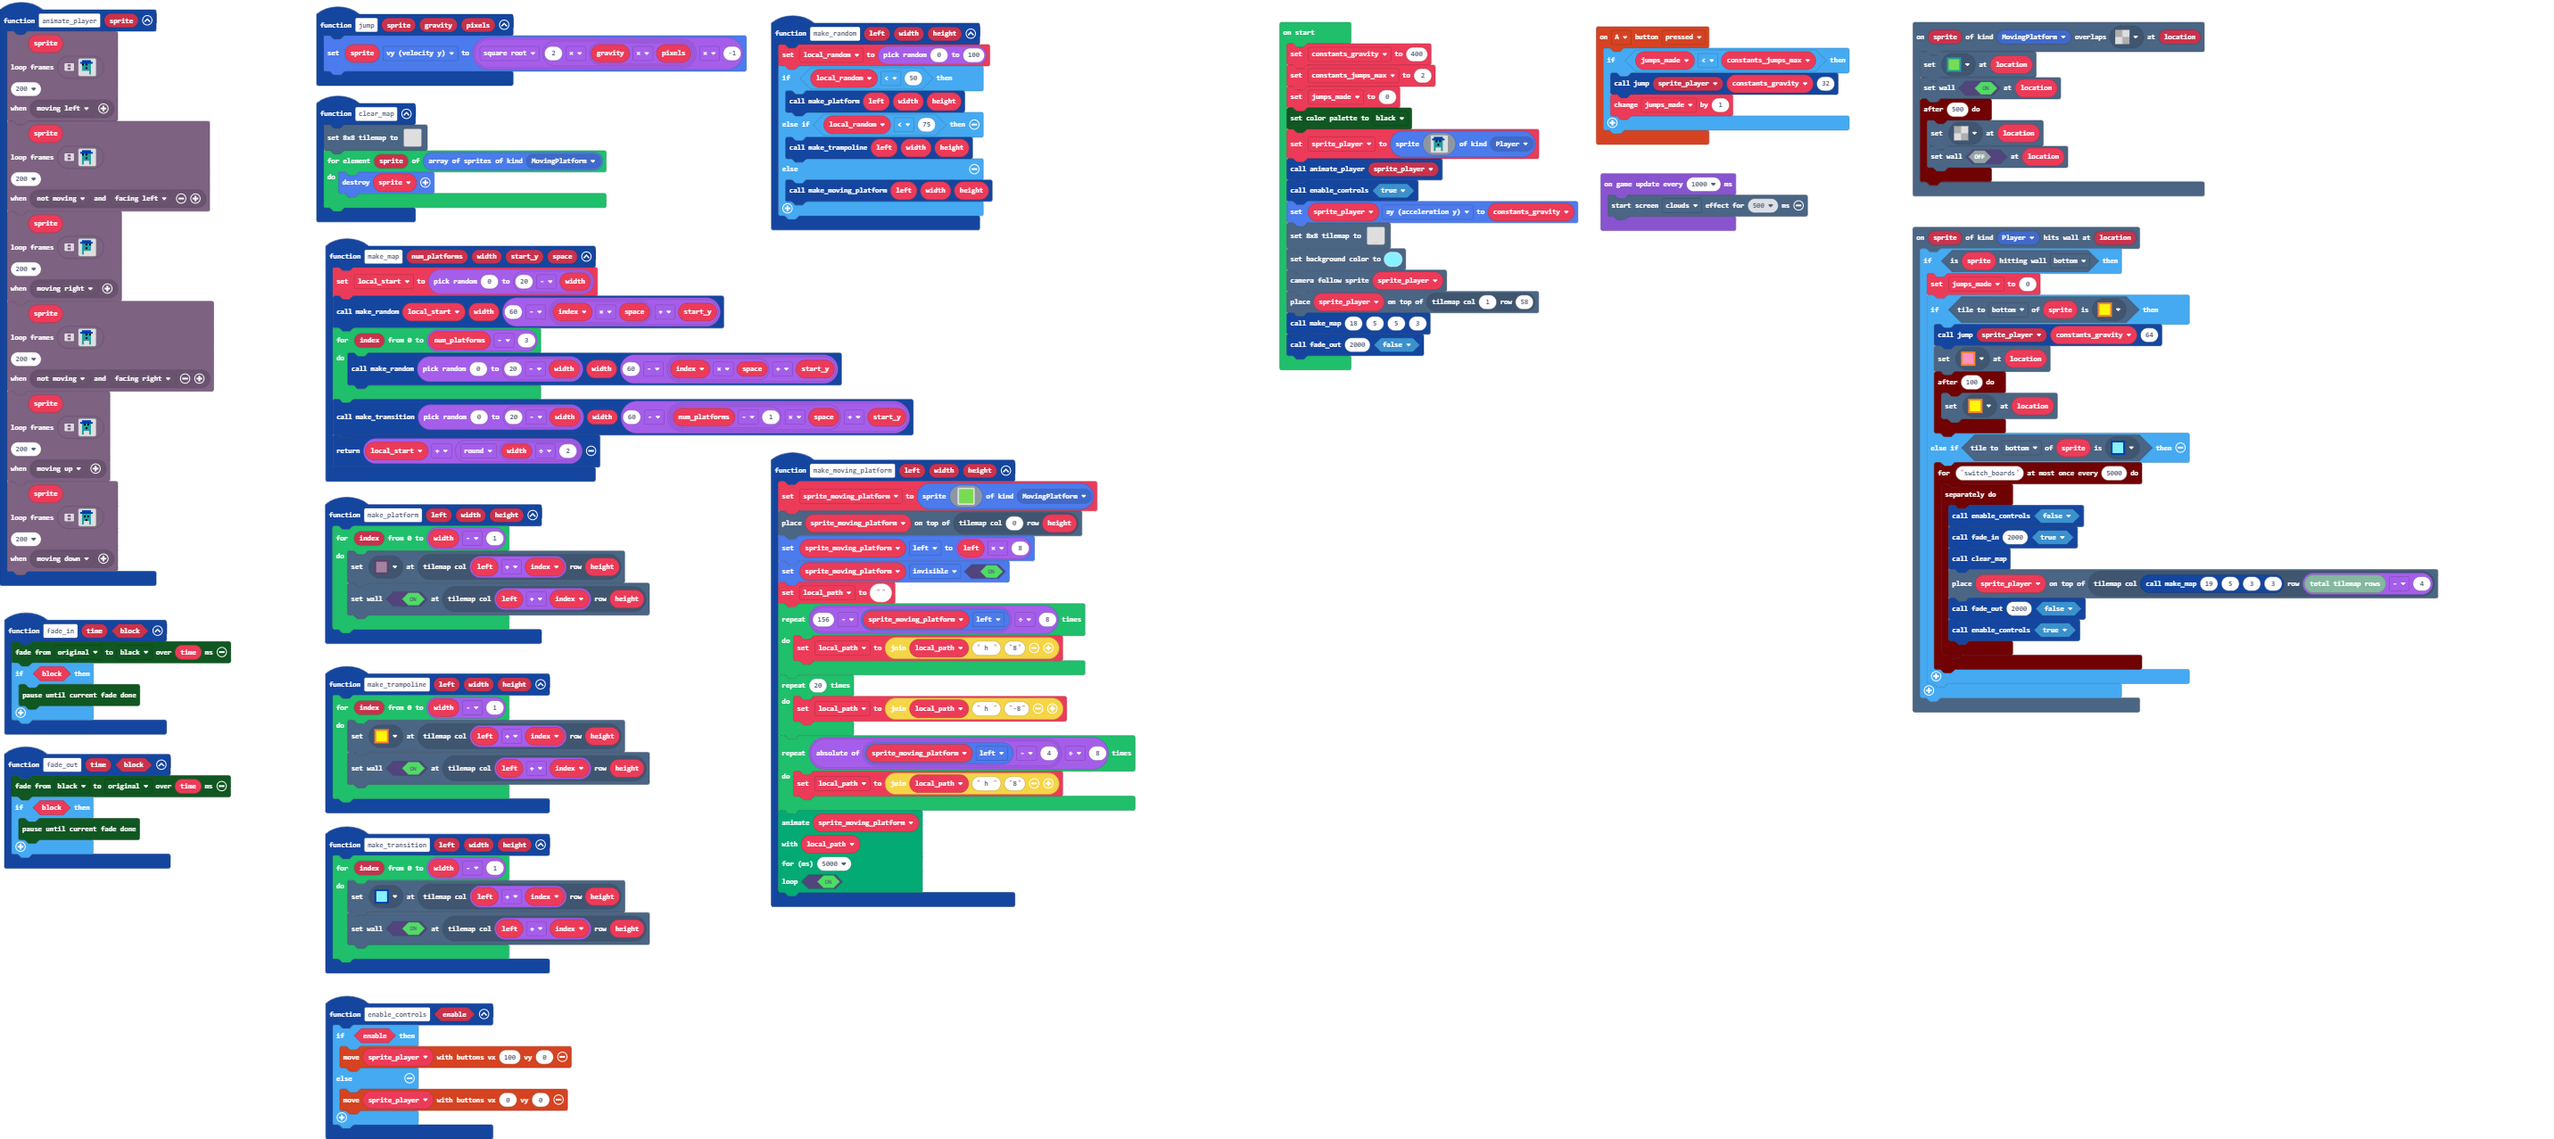
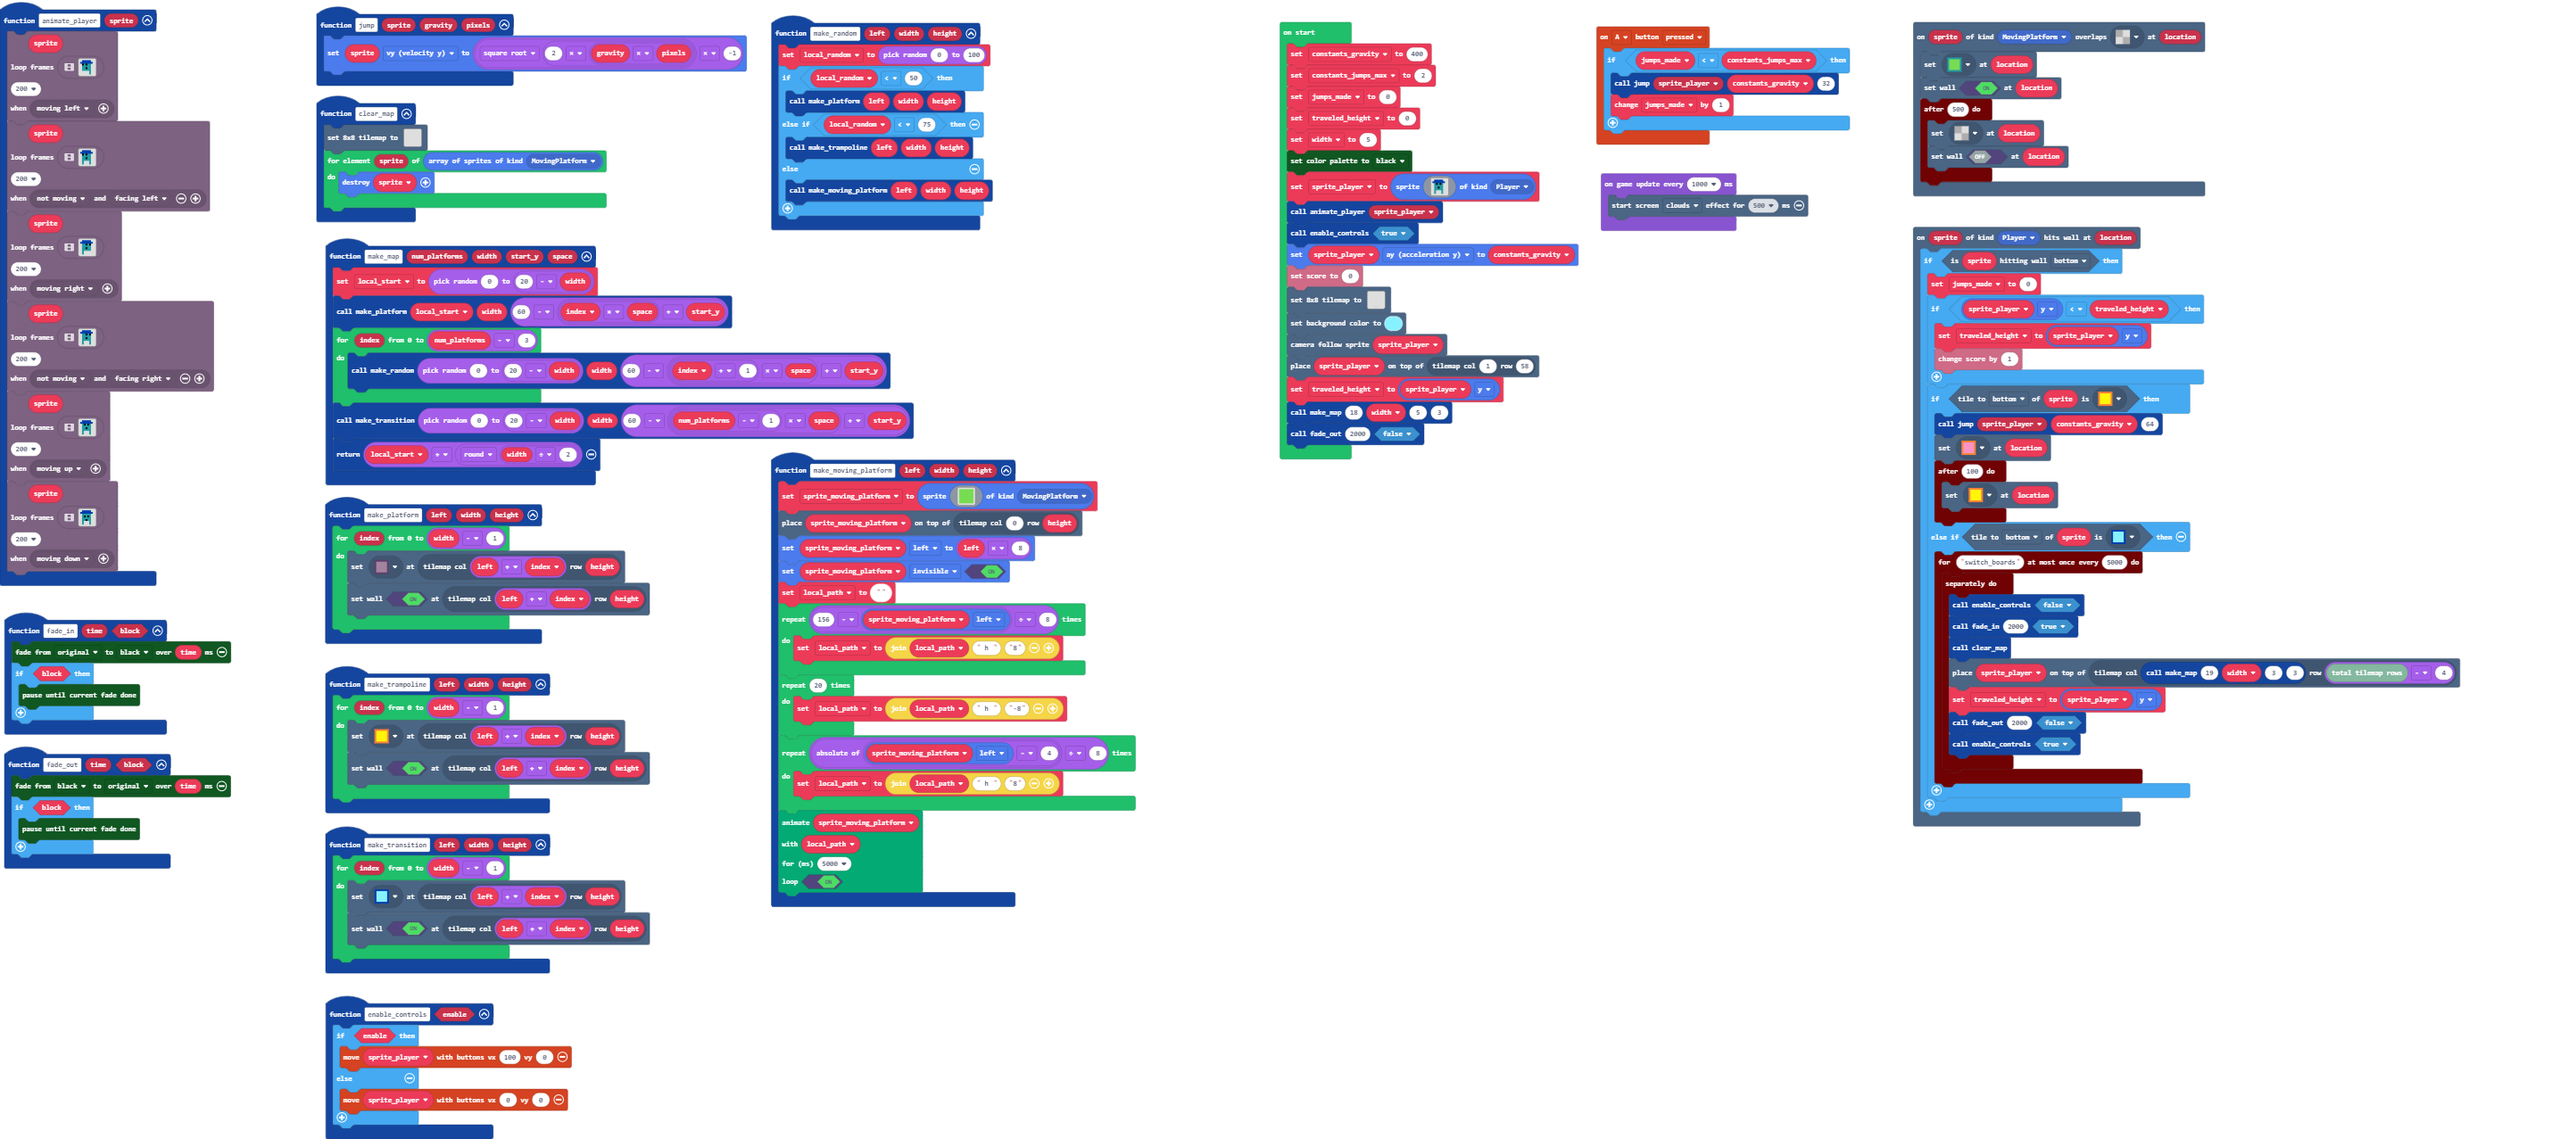
Scoring!

diff --git a/main.ts b/main.ts
@@ -4,6 +4,10 @@ namespace SpriteKind {
 scene.onHitWall(SpriteKind.Player, function (sprite, location) {
     if (sprite.isHittingTile(CollisionDirection.Bottom)) {
         jumps_made = 0
+        if (sprite_player.y < traveled_height) {
+            traveled_height = sprite_player.y
+            info.changeScoreBy(1)
+        }
         if (sprite.tileKindAt(TileDirection.Bottom, myTiles.tile2)) {
             jump(sprite_player, constants_gravity, 64)
             tiles.setTileAt(location, myTiles.tile4)
@@ -16,7 +20,8 @@ scene.onHitWall(SpriteKind.Player, function (sprite, location) {
                     enable_controls(false)
                     fade_in(2000, true)
                     clear_map()
-                    tiles.placeOnTile(sprite_player, tiles.getTileLocation(make_map(19, 5, 3, 3), tiles.tilemapRows() - 4))
+                    tiles.placeOnTile(sprite_player, tiles.getTileLocation(make_map(19, width, 3, 3), tiles.tilemapRows() - 4))
+                    traveled_height = sprite_player.y
                     fade_out(2000, false)
                     enable_controls(true)
                 })
@@ -148,9 +153,9 @@ function jump (sprite: Sprite, gravity: number, pixels: number) {
 function make_map (num_platforms: number, width: number, start_y: number, space: number) {
     let index = 0
     local_start = randint(0, 20 - width)
-    make_random(local_start, width, 60 - (index * space + start_y))
+    make_platform(local_start, width, 60 - (index * space + start_y))
     for (let index = 0; index <= num_platforms - 3; index++) {
-        make_random(randint(0, 20 - width), width, 60 - (index * space + start_y))
+        make_random(randint(0, 20 - width), width, 60 - ((index + 1) * space + start_y))
     }
     make_transition(randint(0, 20 - width), width, 60 - ((num_platforms - 1) * space + start_y))
     return local_start + Math.round(width / 2)
@@ -307,12 +312,16 @@ let sprite_moving_platform: Sprite = null
 let local_random = 0
 let local_start = 0
 let sprite_player: Sprite = null
+let width = 0
+let traveled_height = 0
 let jumps_made = 0
 let constants_jumps_max = 0
 let constants_gravity = 0
 constants_gravity = 400
 constants_jumps_max = 2
 jumps_made = 0
+traveled_height = 0
+width = 5
 color.setPalette(
 color.Black
 )
@@ -329,6 +338,7 @@ sprite_player = sprites.create(img`
 animate_player(sprite_player)
 enable_controls(true)
 sprite_player.ay = constants_gravity
+info.setScore(0)
[1 lines of base64/hex data omitted]
     ....................
     ....................
@@ -394,7 +404,8 @@ tiles.setSmallTilemap(tiles.createTilemap(hex`14003c0000000000000000000000000000
 scene.setBackgroundColor(9)
 scene.cameraFollowSprite(sprite_player)
 tiles.placeOnTile(sprite_player, tiles.getTileLocation(1, 58))
-make_map(18, 5, 5, 3)
+traveled_height = sprite_player.y
+make_map(18, width, 5, 3)
 fade_out(2000, false)
 game.onUpdateInterval(1000, function () {
     effects.clouds.startScreenEffect(500)
